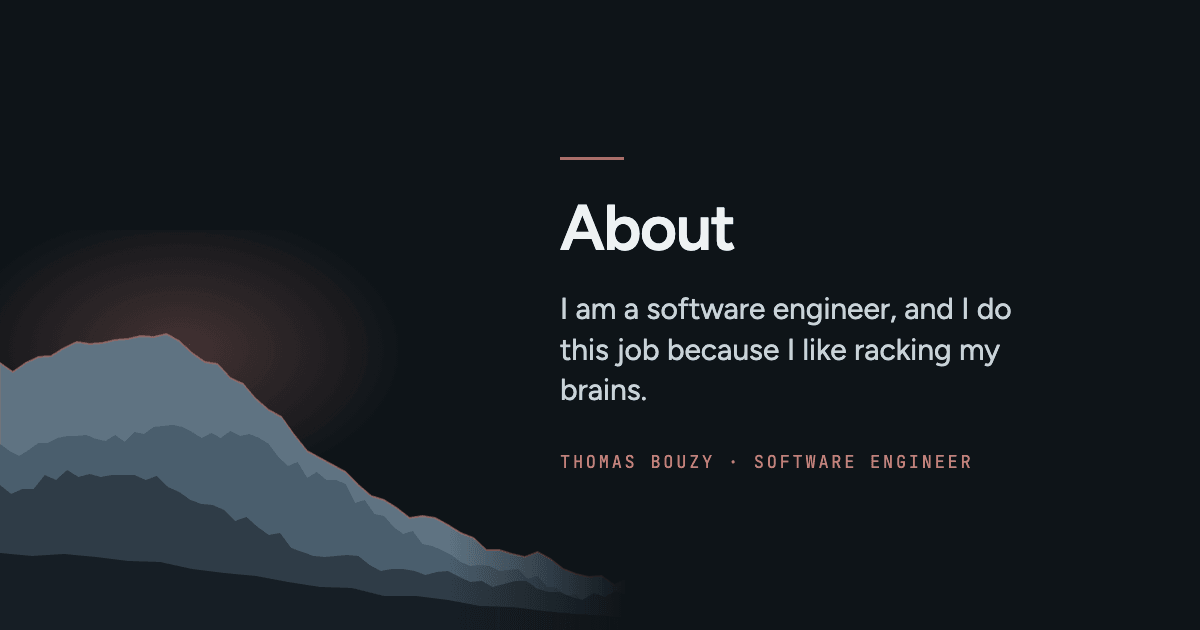
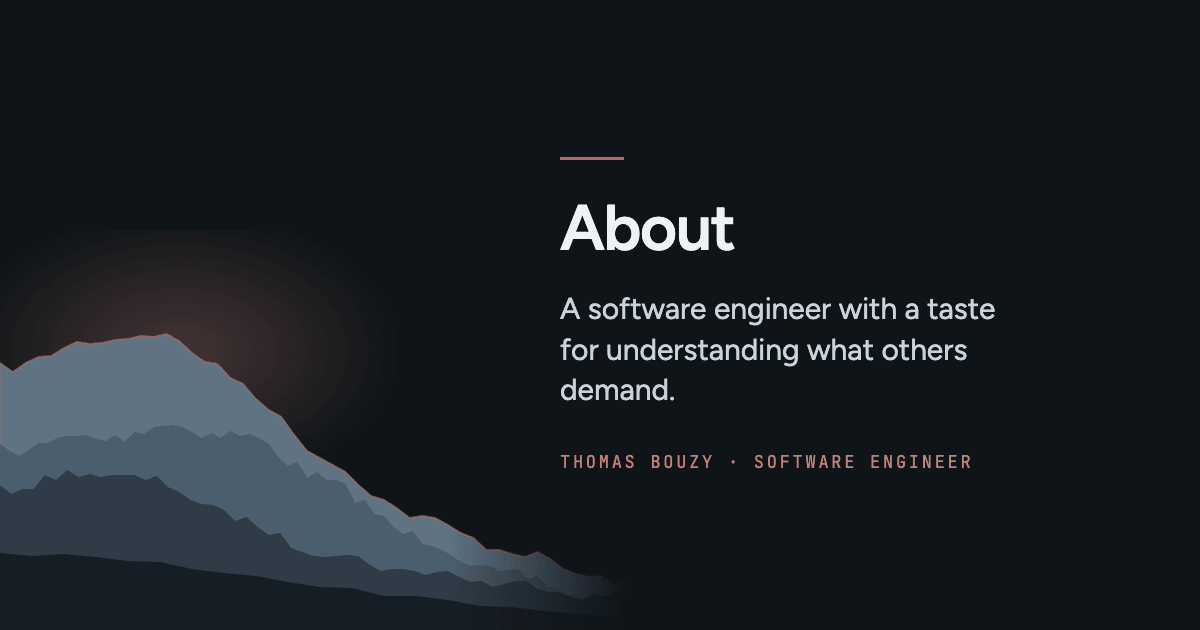
Open the About page on a taste for other people's standards
"Ingénieur logiciel, avec le goût de comprendre l'exigence des autres."
replaces a line about liking to rack his brains, in Thomas's words. The
About page's Open Graph cards are redrawn from it.

Changed region(s): [[0.4625, 0.4524, 0.8633, 0.5127], [0.4625, 0.5429, 0.8325, 0.573], [0.4625, 0.6032, 0.555, 0.6333]]

diff --git a/src/content/fr.ts b/src/content/fr.ts
@@ -1077,7 +1077,7 @@ export const fr = {
     },
     kicker: 'À propos',
     title: 'Qui décroche',
-    plain: "Ingénieur logiciel, je fais ce métier parce que j'aime me creuser la tête.",
+    plain: "Ingénieur logiciel, avec le goût de comprendre l'exigence des autres.",
     paragraphs: [
       "Un stock qui ne tombe jamais juste, une appli que plus personne n'ose toucher : confiez-moi ça et je ne lâche plus.",
       "Alors non, je ne suis pas « passionné de tech ». La tech, c'est mon outil. Ce qui m'intéresse, c'est ce dont votre entreprise a besoin et comment on le met en place sans en faire une usine à gaz.",

diff --git a/src/content/en.ts b/src/content/en.ts
@@ -845,7 +845,7 @@ export const en = {
     },
     kicker: 'About',
     title: 'Who picks up',
-    plain: 'I am a software engineer, and I do this job because I like racking my brains.',
+    plain: 'A software engineer with a taste for understanding what others demand.',
     paragraphs: [
       "A stock count that never adds up, an app nobody dares touch any more: give me that and I won't let go.",
       'So no, I am not "passionate about tech". Tech is my tool. What interests me is what your business needs, and how to put it in place without overengineering it.',
